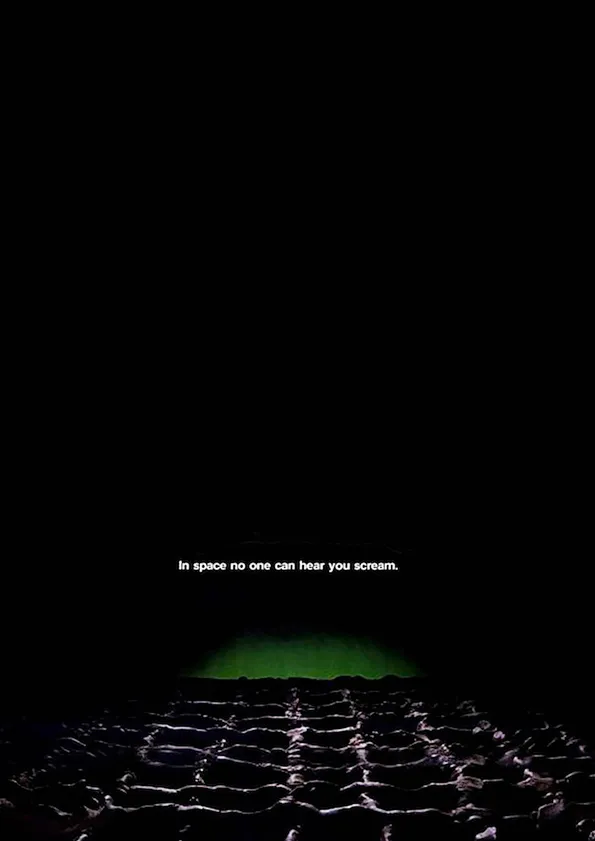
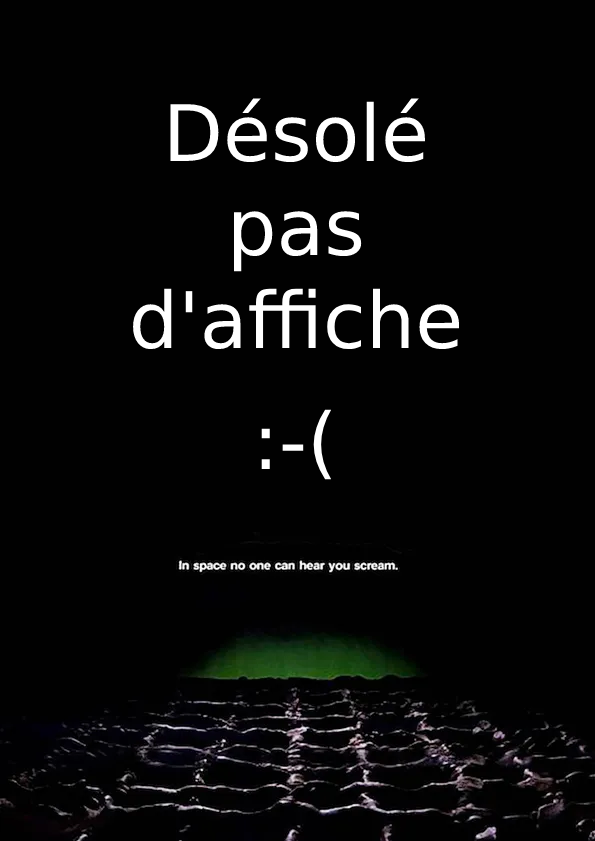
ajout d'une affiche tampon quand il n'y a pas d'affiche disponible

diff --git a/API/TMDBApi.js b/API/TMDBApi.js
@@ -1,4 +1,4 @@
-import axios from 'axios';
+import axios from 'axios'
 import { API_TOKEN } from '@env'
 
 const getFilmsFromApiWithSearchedText = async (text) => {
@@ -15,6 +15,10 @@ const getFilmsFromApiWithSearchedText = async (text) => {
   return response.data
 }
 const getImageFromApi = (name) => {
+  if (name === null || name === undefined)
+    return require('../Assets/images/filmVide.png')
+  // 'https://image.tmdb.org/t/p/original' + name
+  // 'https://image.tmdb.org/t/p/w300' + name
   return { uri: 'https://image.tmdb.org/t/p/w300' + name }
 }
 
